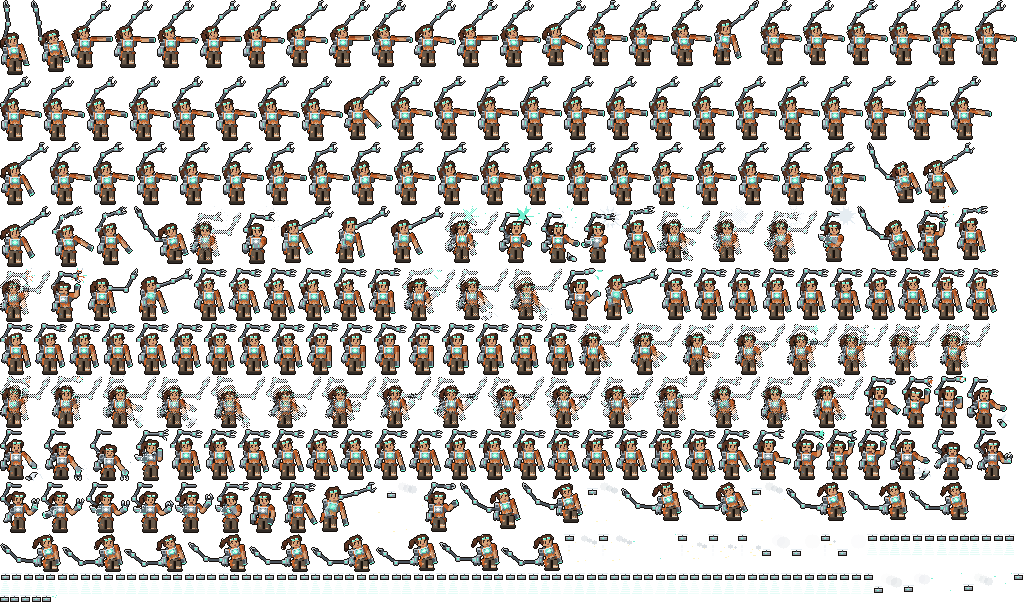
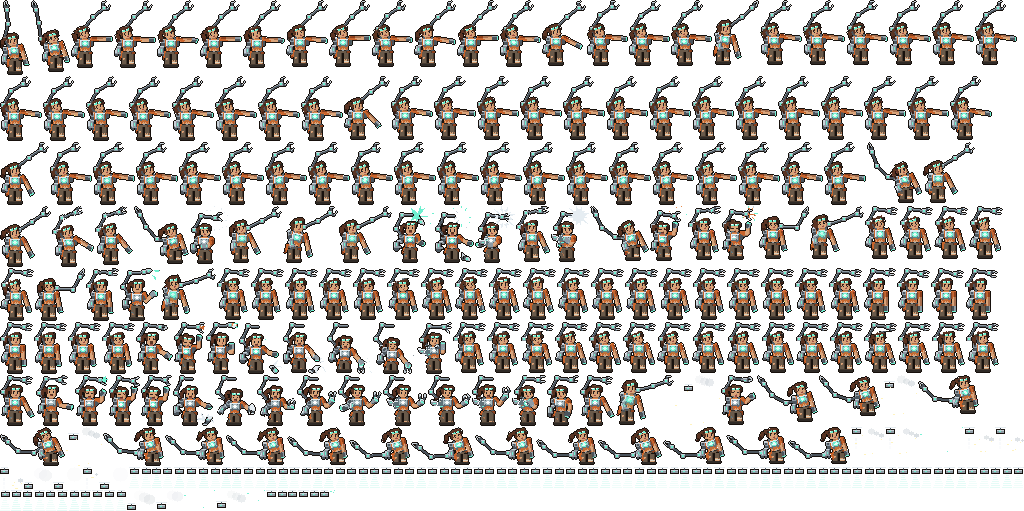
Replace the checker-pattern mix in Tilly's bridge with a small hop
Selecting Tilly in the middle of her act passed through a dithered half-and-half
mix of the act pose and the ready pose, which showed as a checker pattern over
the figure. The in-between frame is now the ready pose two pixels up, the same
frame for every moment.

Claude-Session: https://claude.ai/code/session_01Rn1Tt6QxJ17sB2a88PmyKo

diff --git a/apps/web/src/hangar-shadows.ts b/apps/web/src/hangar-shadows.ts
@@ -2,7 +2,7 @@
 // inside the box of the Hero: [x of the middle, y of the contact, width], or null where the Hero is off the ground.
 export type ShadowSpot = readonly [number, number, number] | null;
 
-export const BRIDGE_SHADOWS: Record<string, readonly ShadowSpot[]> = {"max-act": [[142.2, 271.6, 177.7], [139.6, 271.6, 76.2], [142.2, 271.6, 177.7], [139.6, 271.6, 76.2], [142.2, 271.6, 177.7], [139.6, 271.6, 76.2], [139.6, 271.6, 76.2], [140.9, 271.6, 76.2], [139.6, 271.6, 76.2], [140.9, 271.6, 76.2], [139.6, 271.6, 76.2], [139.6, 271.6, 76.2], [140.9, 271.6, 76.2], [140.9, 271.6, 76.2], [139.6, 271.6, 76.2], [140.9, 271.6, 76.2], [139.6, 271.6, 76.2], [140.9, 271.6, 76.2], [140.9, 271.6, 76.2], [140.9, 271.6, 76.2], [138.3, 271.6, 76.2], [138.3, 271.6, 76.2], [140.9, 271.6, 76.2], [140.9, 271.6, 76.2], [140.9, 271.6, 76.2], [140.9, 271.6, 76.2], [140.9, 271.6, 76.2], [140.9, 271.6, 76.2], [140.9, 271.6, 76.2], [140.9, 271.6, 76.2], [140.9, 271.6, 76.2], [139.6, 271.6, 76.2], [139.6, 271.6, 76.2], [139.6, 271.6, 76.2], [139.6, 271.6, 76.2], [139.6, 271.6, 76.2]], "tilly-act": [[145.9, 281.7, 76.1], [139.6, 279.2, 76.1], [145.9, 281.7, 76.1], [139.6, 279.2, 76.1], [145.9, 281.7, 76.1], [139.6, 279.2, 76.1], [145.9, 281.7, 76.1], [139.6, 279.2, 76.1], [145.9, 281.7, 76.1], [139.6, 279.2, 76.1], [145.9, 281.7, 76.1], [139.6, 279.2, 76.1], [145.9, 281.7, 76.1], [139.6, 279.2, 76.1], [145.9, 281.7, 76.1], [139.6, 279.2, 76.1], [145.9, 281.7, 76.1], [139.6, 279.2, 76.1], [145.9, 281.7, 76.1], [139.6, 279.2, 76.1], [145.9, 281.7, 76.1], [139.6, 279.2, 76.1], [145.9, 281.7, 76.1], [139.6, 279.2, 76.1], [145.9, 281.7, 76.1], [139.6, 279.2, 76.1], [145.9, 281.7, 76.1], [139.6, 279.2, 76.1], [145.9, 281.7, 76.1], [139.6, 279.2, 76.1], [145.9, 281.7, 76.1], [139.6, 279.2, 76.1], [145.9, 281.7, 76.1], [139.6, 279.2, 76.1], [145.9, 281.7, 76.1], [139.6, 279.2, 76.1], [145.9, 281.7, 76.1], [139.6, 279.2, 76.1], [145.9, 281.7, 76.1], [139.6, 279.2, 76.1], [145.9, 281.7, 76.1], [139.6, 279.2, 76.1], [145.9, 281.7, 76.1], [139.6, 279.2, 76.1], [145.9, 281.7, 76.1], [139.6, 279.2, 76.1], [145.9, 281.7, 76.1], [139.6, 279.2, 76.1], [145.9, 281.7, 76.1], [139.6, 279.2, 76.1], [145.9, 281.7, 76.1], [139.6, 279.2, 76.1], [145.9, 281.7, 76.1], [139.6, 279.2, 76.1], [145.9, 281.7, 76.1], [139.6, 279.2, 76.1], [145.9, 281.7, 76.1], [139.6, 279.2, 76.1], [145.9, 281.7, 76.1], [139.6, 279.2, 76.1], [145.9, 281.7, 76.1], [139.6, 279.2, 76.1], [145.9, 281.7, 76.1], [139.6, 279.2, 76.1], [145.9, 281.7, 76.1], [139.6, 279.2, 76.1]], "kit-act": [[173.9, 170.1, 116.5], [173.9, 170.1, 116.5], [173.9, 170.1, 116.5], [173.9, 170.1, 116.5], [173.9, 170.1, 116.5], [173.9, 170.1, 116.5], [173.9, 170.1, 116.5], [173.9, 170.1, 116.5], [173.9, 170.1, 116.5], [173.9, 170.1, 116.5], [173.9, 170.1, 116.5], [173.9, 170.1, 116.5], [173.9, 170.1, 116.5], [173.9, 170.1, 116.5], [173.9, 170.1, 116.5], [173.9, 170.1, 116.5], [173.9, 170.1, 116.5], [173.9, 170.1, 116.5], [173.9, 170.1, 116.5], [173.9, 170.1, 116.5], [173.9, 170.1, 116.5], [173.9, 170.1, 116.5], [173.9, 170.1, 116.5], [173.9, 170.1, 116.5], [173.9, 170.1, 116.5], [173.9, 170.1, 116.5], [173.9, 170.1, 116.5], [173.9, 170.1, 116.5], [173.9, 170.1, 116.5], [173.9, 170.1, 116.5], [173.9, 170.1, 116.5], [173.9, 170.1, 116.5], [173.9, 170.1, 116.5], [173.9, 170.1, 116.5], [173.9, 170.1, 116.5], [173.9, 170.1, 116.5], [173.9, 170.1, 116.5], [173.9, 170.1, 116.5], [173.9, 170.1, 116.5], [173.9, 170.1, 116.5], [173.9, 170.1, 116.5], [173.9, 170.1, 116.5], [173.9, 170.1, 116.5], [173.9, 170.1, 116.5], [173.9, 170.1, 116.5], [173.9, 170.1, 116.5], [173.9, 170.1, 116.5], [173.9, 170.1, 116.5], [173.9, 170.1, 116.5], [173.9, 170.1, 116.5], [173.9, 170.1, 116.5], [173.9, 170.1, 116.5], [173.9, 170.1, 116.5], [173.9, 170.1, 116.5], [173.9, 170.1, 116.5], [173.9, 170.1, 116.5], [173.9, 170.1, 116.5], [173.9, 170.1, 116.5], [173.9, 170.1, 116.5], [173.9, 170.1, 116.5], [173.9, 170.1, 116.5], [173.9, 170.1, 116.5], [173.9, 170.1, 116.5], [173.9, 170.1, 116.5], [173.9, 170.1, 116.5], [173.9, 170.1, 116.5], [173.9, 170.1, 116.5], [173.9, 170.1, 116.5], [173.9, 170.1, 116.5], [173.9, 170.1, 116.5], [173.9, 170.1, 116.5], [173.9, 170.1, 116.5], [173.9, 170.1, 116.5], [173.9, 170.1, 116.5], [173.9, 170.1, 116.5], [173.9, 170.1, 116.5], [173.9, 170.1, 116.5], [173.9, 170.1, 116.5], [173.9, 170.1, 116.5], [173.9, 170.1, 116.5], [173.9, 170.1, 116.5], [173.9, 170.1, 116.5], [173.9, 170.1, 116.5], [173.9, 170.1, 116.5]], "kit-idle": [[173.9, 170.1, 116.5], [173.9, 170.1, 116.5], [173.9, 170.1, 116.5], [173.9, 170.1, 116.5], [173.9, 170.1, 116.5], [173.9, 170.1, 116.5], [173.9, 170.1, 116.5], [173.9, 170.1, 116.5], [173.9, 170.1, 116.5], [173.9, 170.1, 116.5], [173.9, 170.1, 116.5], [173.9, 170.1, 116.5], [173.9, 170.1, 116.5], [173.9, 170.1, 116.5], [173.9, 170.1, 116.5], [173.9, 170.1, 116.5], [173.9, 170.1, 116.5], [173.9, 170.1, 116.5], [173.9, 170.1, 116.5], [173.9, 170.1, 116.5], [173.9, 170.1, 116.5], [173.9, 170.1, 116.5], [173.9, 170.1, 116.5], [173.9, 170.1, 116.5], [173.9, 170.1, 116.5], [173.9, 170.1, 116.5], [173.9, 170.1, 116.5], [173.9, 170.1, 116.5], [173.9, 170.1, 116.5], [173.9, 170.1, 116.5], [173.9, 170.1, 116.5], [173.9, 170.1, 116.5], [173.9, 170.1, 116.5], [173.9, 170.1, 116.5], [173.9, 170.1, 116.5], [173.9, 170.1, 116.5], [173.9, 170.1, 116.5], [173.9, 170.1, 116.5], [173.9, 170.1, 116.5], [173.9, 170.1, 116.5], [173.9, 170.1, 116.5], [173.9, 170.1, 116.5], [173.9, 170.1, 116.5], [173.9, 170.1, 116.5], [173.9, 170.1, 116.5], [173.9, 170.1, 116.5], [173.9, 170.1, 116.5], [173.9, 170.1, 116.5], [173.9, 170.1, 116.5], [173.9, 170.1, 116.5], [173.9, 170.1, 116.5], [173.9, 170.1, 116.5], [173.9, 170.1, 116.5], [173.9, 170.1, 116.5], [173.9, 170.1, 116.5], [173.9, 170.1, 116.5], [173.9, 170.1, 116.5], [173.9, 170.1, 116.5], [173.9, 170.1, 116.5], [173.9, 170.1, 116.5], [173.9, 170.1, 116.5], [173.9, 170.1, 116.5], [173.9, 170.1, 116.5], [173.9, 170.1, 116.5], [173.9, 170.1, 116.5], [173.9, 170.1, 116.5], [173.9, 170.1, 116.5], [173.9, 170.1, 116.5], [173.9, 170.1, 116.5], [173.9, 170.1, 116.5], [173.9, 170.1, 116.5], [173.9, 170.1, 116.5], [173.9, 170.1, 116.5], [173.9, 170.1, 116.5], [173.9, 170.1, 116.5], [173.9, 170.1, 116.5], [173.9, 170.1, 116.5], [173.9, 170.1, 116.5], [173.9, 170.1, 116.5], [173.9, 170.1, 116.5], [173.9, 170.1, 116.5], [173.9, 170.1, 116.5], [173.9, 170.1, 116.5], [173.9, 170.1, 116.5]]};
+export const BRIDGE_SHADOWS: Record<string, readonly ShadowSpot[]> = {"max-act": [[142.2, 271.6, 177.7], [139.6, 271.6, 76.2], [142.2, 271.6, 177.7], [139.6, 271.6, 76.2], [142.2, 271.6, 177.7], [139.6, 271.6, 76.2], [139.6, 271.6, 76.2], [140.9, 271.6, 76.2], [139.6, 271.6, 76.2], [140.9, 271.6, 76.2], [139.6, 271.6, 76.2], [139.6, 271.6, 76.2], [140.9, 271.6, 76.2], [140.9, 271.6, 76.2], [139.6, 271.6, 76.2], [140.9, 271.6, 76.2], [139.6, 271.6, 76.2], [140.9, 271.6, 76.2], [140.9, 271.6, 76.2], [140.9, 271.6, 76.2], [138.3, 271.6, 76.2], [138.3, 271.6, 76.2], [140.9, 271.6, 76.2], [140.9, 271.6, 76.2], [140.9, 271.6, 76.2], [140.9, 271.6, 76.2], [140.9, 271.6, 76.2], [140.9, 271.6, 76.2], [140.9, 271.6, 76.2], [140.9, 271.6, 76.2], [140.9, 271.6, 76.2], [139.6, 271.6, 76.2], [139.6, 271.6, 76.2], [139.6, 271.6, 76.2], [139.6, 271.6, 76.2], [139.6, 271.6, 76.2]], "tilly-act": [[145.9, 281.7, 76.1], [133.3, 276.7, 76.1], [145.9, 281.7, 76.1], [133.3, 276.7, 76.1], [145.9, 281.7, 76.1], [133.3, 276.7, 76.1], [145.9, 281.7, 76.1], [133.3, 276.7, 76.1], [145.9, 281.7, 76.1], [133.3, 276.7, 76.1], [145.9, 281.7, 76.1], [133.3, 276.7, 76.1], [145.9, 281.7, 76.1], [133.3, 276.7, 76.1], [145.9, 281.7, 76.1], [133.3, 276.7, 76.1], [145.9, 281.7, 76.1], [133.3, 276.7, 76.1], [145.9, 281.7, 76.1], [133.3, 276.7, 76.1], [145.9, 281.7, 76.1], [133.3, 276.7, 76.1], [145.9, 281.7, 76.1], [133.3, 276.7, 76.1], [145.9, 281.7, 76.1], [133.3, 276.7, 76.1], [145.9, 281.7, 76.1], [133.3, 276.7, 76.1], [145.9, 281.7, 76.1], [133.3, 276.7, 76.1], [145.9, 281.7, 76.1], [133.3, 276.7, 76.1], [145.9, 281.7, 76.1], [133.3, 276.7, 76.1], [145.9, 281.7, 76.1], [133.3, 276.7, 76.1], [145.9, 281.7, 76.1], [133.3, 276.7, 76.1], [145.9, 281.7, 76.1], [133.3, 276.7, 76.1], [145.9, 281.7, 76.1], [133.3, 276.7, 76.1], [145.9, 281.7, 76.1], [133.3, 276.7, 76.1], [145.9, 281.7, 76.1], [133.3, 276.7, 76.1], [145.9, 281.7, 76.1], [133.3, 276.7, 76.1], [145.9, 281.7, 76.1], [133.3, 276.7, 76.1], [145.9, 281.7, 76.1], [133.3, 276.7, 76.1], [145.9, 281.7, 76.1], [133.3, 276.7, 76.1], [145.9, 281.7, 76.1], [133.3, 276.7, 76.1], [145.9, 281.7, 76.1], [133.3, 276.7, 76.1], [145.9, 281.7, 76.1], [133.3, 276.7, 76.1], [145.9, 281.7, 76.1], [133.3, 276.7, 76.1], [145.9, 281.7, 76.1], [133.3, 276.7, 76.1], [145.9, 281.7, 76.1], [133.3, 276.7, 76.1]], "kit-act": [[173.9, 170.1, 116.5], [173.9, 170.1, 116.5], [173.9, 170.1, 116.5], [173.9, 170.1, 116.5], [173.9, 170.1, 116.5], [173.9, 170.1, 116.5], [173.9, 170.1, 116.5], [173.9, 170.1, 116.5], [173.9, 170.1, 116.5], [173.9, 170.1, 116.5], [173.9, 170.1, 116.5], [173.9, 170.1, 116.5], [173.9, 170.1, 116.5], [173.9, 170.1, 116.5], [173.9, 170.1, 116.5], [173.9, 170.1, 116.5], [173.9, 170.1, 116.5], [173.9, 170.1, 116.5], [173.9, 170.1, 116.5], [173.9, 170.1, 116.5], [173.9, 170.1, 116.5], [173.9, 170.1, 116.5], [173.9, 170.1, 116.5], [173.9, 170.1, 116.5], [173.9, 170.1, 116.5], [173.9, 170.1, 116.5], [173.9, 170.1, 116.5], [173.9, 170.1, 116.5], [173.9, 170.1, 116.5], [173.9, 170.1, 116.5], [173.9, 170.1, 116.5], [173.9, 170.1, 116.5], [173.9, 170.1, 116.5], [173.9, 170.1, 116.5], [173.9, 170.1, 116.5], [173.9, 170.1, 116.5], [173.9, 170.1, 116.5], [173.9, 170.1, 116.5], [173.9, 170.1, 116.5], [173.9, 170.1, 116.5], [173.9, 170.1, 116.5], [173.9, 170.1, 116.5], [173.9, 170.1, 116.5], [173.9, 170.1, 116.5], [173.9, 170.1, 116.5], [173.9, 170.1, 116.5], [173.9, 170.1, 116.5], [173.9, 170.1, 116.5], [173.9, 170.1, 116.5], [173.9, 170.1, 116.5], [173.9, 170.1, 116.5], [173.9, 170.1, 116.5], [173.9, 170.1, 116.5], [173.9, 170.1, 116.5], [173.9, 170.1, 116.5], [173.9, 170.1, 116.5], [173.9, 170.1, 116.5], [173.9, 170.1, 116.5], [173.9, 170.1, 116.5], [173.9, 170.1, 116.5], [173.9, 170.1, 116.5], [173.9, 170.1, 116.5], [173.9, 170.1, 116.5], [173.9, 170.1, 116.5], [173.9, 170.1, 116.5], [173.9, 170.1, 116.5], [173.9, 170.1, 116.5], [173.9, 170.1, 116.5], [173.9, 170.1, 116.5], [173.9, 170.1, 116.5], [173.9, 170.1, 116.5], [173.9, 170.1, 116.5], [173.9, 170.1, 116.5], [173.9, 170.1, 116.5], [173.9, 170.1, 116.5], [173.9, 170.1, 116.5], [173.9, 170.1, 116.5], [173.9, 170.1, 116.5], [173.9, 170.1, 116.5], [173.9, 170.1, 116.5], [173.9, 170.1, 116.5], [173.9, 170.1, 116.5], [173.9, 170.1, 116.5], [173.9, 170.1, 116.5]], "kit-idle": [[173.9, 170.1, 116.5], [173.9, 170.1, 116.5], [173.9, 170.1, 116.5], [173.9, 170.1, 116.5], [173.9, 170.1, 116.5], [173.9, 170.1, 116.5], [173.9, 170.1, 116.5], [173.9, 170.1, 116.5], [173.9, 170.1, 116.5], [173.9, 170.1, 116.5], [173.9, 170.1, 116.5], [173.9, 170.1, 116.5], [173.9, 170.1, 116.5], [173.9, 170.1, 116.5], [173.9, 170.1, 116.5], [173.9, 170.1, 116.5], [173.9, 170.1, 116.5], [173.9, 170.1, 116.5], [173.9, 170.1, 116.5], [173.9, 170.1, 116.5], [173.9, 170.1, 116.5], [173.9, 170.1, 116.5], [173.9, 170.1, 116.5], [173.9, 170.1, 116.5], [173.9, 170.1, 116.5], [173.9, 170.1, 116.5], [173.9, 170.1, 116.5], [173.9, 170.1, 116.5], [173.9, 170.1, 116.5], [173.9, 170.1, 116.5], [173.9, 170.1, 116.5], [173.9, 170.1, 116.5], [173.9, 170.1, 116.5], [173.9, 170.1, 116.5], [173.9, 170.1, 116.5], [173.9, 170.1, 116.5], [173.9, 170.1, 116.5], [173.9, 170.1, 116.5], [173.9, 170.1, 116.5], [173.9, 170.1, 116.5], [173.9, 170.1, 116.5], [173.9, 170.1, 116.5], [173.9, 170.1, 116.5], [173.9, 170.1, 116.5], [173.9, 170.1, 116.5], [173.9, 170.1, 116.5], [173.9, 170.1, 116.5], [173.9, 170.1, 116.5], [173.9, 170.1, 116.5], [173.9, 170.1, 116.5], [173.9, 170.1, 116.5], [173.9, 170.1, 116.5], [173.9, 170.1, 116.5], [173.9, 170.1, 116.5], [173.9, 170.1, 116.5], [173.9, 170.1, 116.5], [173.9, 170.1, 116.5], [173.9, 170.1, 116.5], [173.9, 170.1, 116.5], [173.9, 170.1, 116.5], [173.9, 170.1, 116.5], [173.9, 170.1, 116.5], [173.9, 170.1, 116.5], [173.9, 170.1, 116.5], [173.9, 170.1, 116.5], [173.9, 170.1, 116.5], [173.9, 170.1, 116.5], [173.9, 170.1, 116.5], [173.9, 170.1, 116.5], [173.9, 170.1, 116.5], [173.9, 170.1, 116.5], [173.9, 170.1, 116.5], [173.9, 170.1, 116.5], [173.9, 170.1, 116.5], [173.9, 170.1, 116.5], [173.9, 170.1, 116.5], [173.9, 170.1, 116.5], [173.9, 170.1, 116.5], [173.9, 170.1, 116.5], [173.9, 170.1, 116.5], [173.9, 170.1, 116.5], [173.9, 170.1, 116.5], [173.9, 170.1, 116.5], [173.9, 170.1, 116.5]]};
 
 /** The height of a shadow against its width, and how far above the contact its middle lies (in heights): the numbers of the keyframes. */
 export const SHADOW_FLAT = 0.26;

diff --git a/docs/design/heroes/tools/pixellab-act.py b/docs/design/heroes/tools/pixellab-act.py
@@ -29,7 +29,7 @@ FEET = (58, 112)
 SOURCE_FEET = (32, 58)  # the feet in the 64 x 64 source frames
 ACT_MS = 3300
 BRIDGE_FRAME_MS = 85  # BRIDGE_FRAME_MS of apps/web/src/hangar-select.ts
-BAYER = ((0, 8, 2, 10), (12, 4, 14, 6), (3, 11, 1, 9), (15, 7, 13, 5))
+BRIDGE_HOP_PX = 2  # the in-between frame of the bridge: the ready pose, this many pixels up (a small hop of surprise)
 PAGE_WIDTH = 1024
 PADDING = 1
 PALETTE_MIN_COUNT = 300
@@ -96,14 +96,10 @@ def whole_frame(sheet: Image.Image, data: dict, name: str) -> Image.Image:
     return whole
 
 
-def mix(first: Image.Image, second: Image.Image, weight: float) -> Image.Image:
-    """A pixel-art in-between of two poses: each pixel is the second pose's where the 4 x 4 Bayer matrix is under `weight`, else the first's."""
-    result = first.copy()
-    a, b, out = first.load(), second.load(), result.load()
-    for y in range(FRAME_H):
-        for x in range(FRAME_W):
-            if (BAYER[y % 4][x % 4] + 0.5) / 16 <= weight:
-                out[x, y] = b[x, y]
+def lifted(picture: Image.Image, pixels: int) -> Image.Image:
+    """The picture moved up by `pixels` (the Hero is off the ground for a frame)."""
+    result = Image.new("RGBA", picture.size, (0, 0, 0, 0))
+    result.alpha_composite(picture, (0, -pixels))
     return result
 
 
@@ -284,11 +280,9 @@ def main() -> None:
     animations["tilly.tolift"] = [idle_first, act[0]]  # the two poses are nearly the same, so there is nothing to mix
     animations["tilly.toidle"] = [act[-1], idle_first]
 
-    bridge = []
-    for index, moment in enumerate(act):  # the bridge: the pose of the act, then half way into the ready pose, then the ready pose begins
-        half = f"tilly.mix.bridge.{index:03d}"
-        new_images[half] = mix(new_images[moment], ready_picture, 0.5)
-        bridge += [moment, half]
+    hop = "tilly.bridge.hop"  # one in-between frame for every moment: she hops into the ready pose
+    new_images[hop] = lifted(ready_picture, BRIDGE_HOP_PX)
+    bridge = [name for moment in act for name in (moment, hop)]  # the bridge: the pose of the act, the hop, then the ready pose begins
     animations["tilly.bridge.act"] = bridge
     clips["tilly.act"] = {"frames": len(act), "durationMs": ACT_MS}
     clips["tilly.bridge.act"] = {"frames": len(animations["tilly.bridge.act"]), "durationMs": len(animations["tilly.bridge.act"]) * BRIDGE_FRAME_MS}

diff --git a/docs/design/heroes/pixellab-act/README.md b/docs/design/heroes/pixellab-act/README.md
@@ -43,9 +43,9 @@ Run the second script **after** `export-hangar.mjs controller` if that was run: 
    - the frames are set into the hangar frame (136 x 116 px, feet at (58, 112));
    - act frame 31: the glove of the right arm was in light greys (`ODD_HAND`), the frames around it have it dark; the greys are mapped to the dark ones;
    - **idle**: the rig's idle draws the third arm as a straight pole, the act as an arch; the arched arm is put into every idle frame (arm and first joint), moved with the head. The arm trails the head by three frames and sways a pixel of its own; both fade out towards the first frame, so `tolift`, `toidle` and the end of `desel` meet it exactly;
-   - `tolift` and `toidle` lead to and from the first and last frame of the act (both nearly the same pose as the idle, so no in-between frames: a dither of nearly equal poses only speckles the arm);
+   - `tolift` and `toidle` lead to and from the first and last frame of the act (both nearly the same pose as the idle, so no in-between frames:);
    - **desel**: the rig's `desel` runs from the hold pose (arm bent up) to the straight pole; the script keeps frame 0, clears the pole in the frames between and swings the forearm and claw of the arched arm about the elbow from the angle of the hold pose down into the arch (frames 1 to 13, a small dip below it for follow-through; `DESEL_SWING`), and the last frame is the arched idle;
-   - **bridge** (a tap in the middle of the act): the pose of the act, then a dithered half-and-half mix of it with the ready pose (the poses differ a lot, so it reads as a quick dissolve), then the ready pose begins.
+   - **bridge** (a tap in the middle of the act): the pose of the act, then one in-between frame, then the ready pose begins. The in-between frame is the ready pose two pixels up (a small hop of surprise, the same frame for every moment). A dithered half-and-half mix of the two poses was tried first and read as a checker pattern over the figure, so it was dropped.
 5. **The tables** `CLIPS`, `BRIDGES` and the contact shadows (`hangar-shadows.ts`) carry the new counts; the feet stand still in the act, so its shadow is one run at the idle spot.
 
 Costs (trial plan, generations): with the large picture, 8 per call (the idle try and its loop try, 16 in all). At 64 x 64 px, 1 per call: pass 1 two calls, pass 2 two calls, and one call whose result was thrown away because it had been made for the wrong arm. In total about 22 of the 40 generations of the trial plan.
